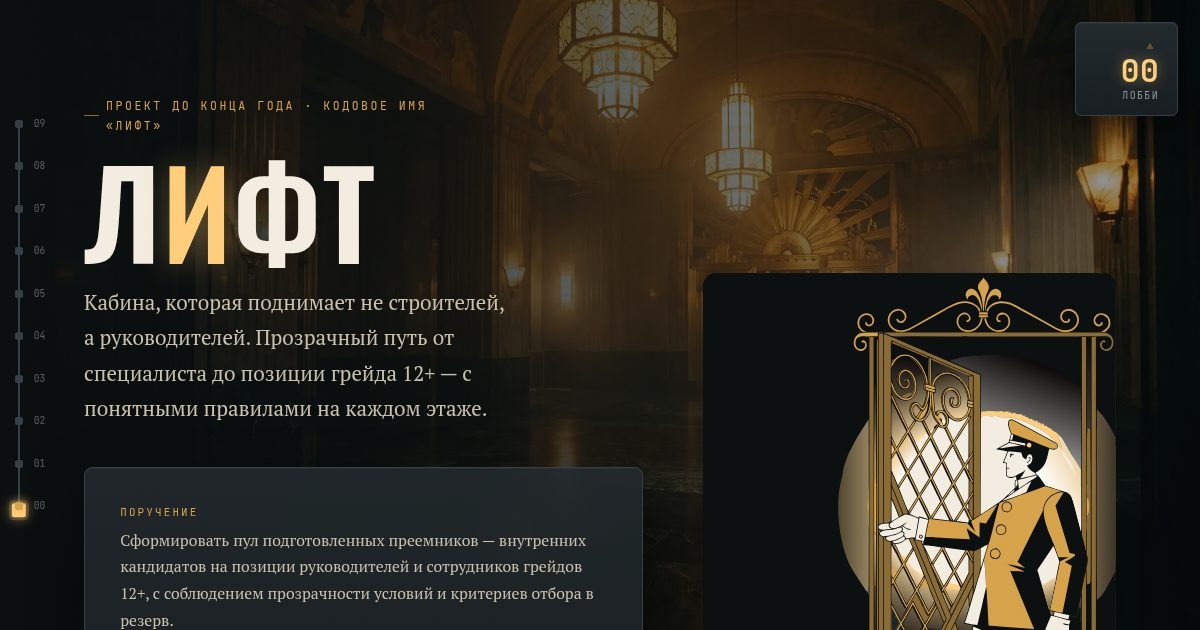
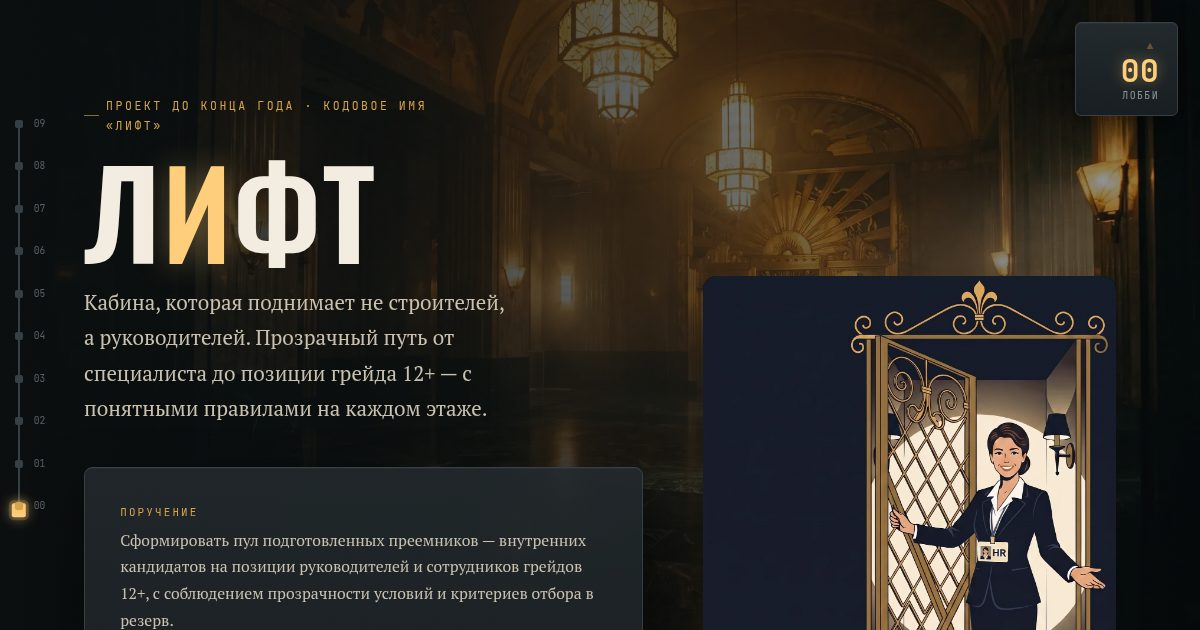
Заменить консьержа в hero на HR-менеджера с бейджем
Иллюстрация сгенерирована Higgsfield (nano-banana-pro, 2K) по стилевому
референсу из презентации: HR открывает решётчатую дверь лифта и приглашает
войти, бейдж с читаемыми буквами HR. concierge.svg удалён, вместо него
hero-hr.webp (1400×1875, 130 КБ); og-image перегенерирован; добавлен
qa/make_standalone.py для сборки автономного одиночного HTML.

Claude-Session: https://claude.ai/code/session_01QR6C7z78xKWRvgqQA5e2BZ

Changed region(s): [[0.5858, 0.4222, 0.9558, 1.0]]

diff --git a/src/styles.css b/src/styles.css
@@ -376,8 +376,8 @@ section.floor.is-active .floor-num::after{
 .hero-copy{display:flex; flex-direction:column; align-items:flex-start; text-align:left; gap:1.5rem;}
 .hero-visual{position:relative; width:100%; border-radius:14px; overflow:hidden; background:url('./assets/img/hero-visual-bg.webp') center/cover no-repeat;}
 .hero-visual::before{content:""; position:absolute; inset:0; background:linear-gradient(180deg, rgba(11,15,16,.15), rgba(11,15,16,.55)); z-index:1;}
-.hero-visual .concierge-svg{position:relative; z-index:2;}
-.hero-visual .concierge-svg{
+.hero-visual .hero-figure{position:relative; z-index:2;}
+.hero-visual .hero-figure{
   width:100%; height:auto; display:block;
   filter:drop-shadow(0 30px 55px rgba(0,0,0,.55));
 }

diff --git a/index.html b/index.html
@@ -88,7 +88,7 @@
       <a class="cta" href="#floor-1">Вызвать лифт <span aria-hidden="true">↑</span></a>
     </div>
     <div class="hero-visual">
-      <img class="concierge-svg" src="./src/assets/img/concierge.svg" width="1792" height="2432" alt="Консьерж открывает решётчатую дверь лифта" fetchpriority="high" decoding="async">
+      <img class="hero-figure" src="./src/assets/img/hero-hr.webp" width="1400" height="1875" alt="HR-менеджер с бейджем открывает решётчатую дверь лифта и приглашает войти" fetchpriority="high" decoding="async">
     </div>
   </div>
 </header>

diff --git a/qa/svg-frame.html b/qa/svg-frame.html
@@ -1,0 +1,2 @@
+<!DOCTYPE html><html><head><style>html,body{margin:0;background:#0b0f10}img{width:896px;height:1216px;display:block}</style></head>
+<body><img src="../src/assets/img/concierge.svg"></body></html>

diff --git a/qa/make_standalone.py b/qa/make_standalone.py
@@ -1,0 +1,38 @@
+# -*- coding: utf-8 -*-
+# Собирает автономный одиночный HTML: все шрифты/картинки/CSS/JS вшиты data-URI.
+import base64, re, os
+
+def data_uri(path, mime):
+    return f'data:{mime};base64,' + base64.b64encode(open(path,'rb').read()).decode()
+
+MIME = {'.woff2':'font/woff2', '.webp':'image/webp', '.svg':'image/svg+xml', '.png':'image/png', '.jpg':'image/jpeg'}
+def uri_for(rel):
+    p = os.path.join('src', rel) if not rel.startswith(('src/','public/')) else rel
+    return data_uri(p, MIME[os.path.splitext(p)[1]])
+
+css = open('src/styles.css', encoding='utf-8').read()
+css = css.replace('/*! CRITICAL-END */', '')
+css = re.sub(r"url\('\./assets/([^']+)'\)", lambda m: "url('" + uri_for('assets/' + m.group(1)) + "')", css)
+
+js = open('src/app.js', encoding='utf-8').read()
+js = js.replace("import './styles.css';\n", '')
+js = js.replace("import sceneCabinUrl from './assets/img/scene-cabin.webp';",
+                "var sceneCabinUrl = '" + uri_for('assets/img/scene-cabin.webp') + "';")
+js = js.replace("import sceneTopUrl from './assets/img/scene-top.webp';",
+                "var sceneTopUrl = '" + uri_for('assets/img/scene-top.webp') + "';")
+
+html = open('index.html', encoding='utf-8').read()
+html = re.sub(r'<img([^>]*?)src="\./src/assets/img/([^"]+)"',
+              lambda m: '<img' + m.group(1) + 'src="' + uri_for('assets/img/' + m.group(2)) + '"', html)
+# preload-ссылки не нужны, всё уже внутри файла
+html = re.sub(r'<link rel="preload" as="image"[^>]*>\n?', '', html)
+html = html.replace('<link rel="icon" href="/favicon.png" type="image/png" sizes="48x48">',
+                    f'<link rel="icon" href="{data_uri("public/favicon.png","image/png")}" type="image/png" sizes="48x48">')
+html = html.replace('<link rel="apple-touch-icon" href="/apple-touch-icon.png">', '')
+html = html.replace('<script type="module" src="/src/app.js"></script>',
+                    '<style>\n' + css + '</style>')
+html = html.replace('</body>', '<script>\n' + js + '\n</script>\n</body>')
+out = '/tmp/claude-0/-home-user/a2633d04-e622-5930-994b-fa25264a22db/scratchpad/lift-landing-standalone.html'
+open(out, 'w', encoding='utf-8').write(html)
+print('standalone:', os.path.getsize(out), 'bytes')
+assert 'src="./src/' not in html and "url('./assets" not in html

diff --git a/README.md b/README.md
@@ -65,6 +65,9 @@ node qa/weigh.cjs                                        # вес первого
 node qa/a11y.cjs                                         # клавиатура + reduced-motion
 ```
 
-Эталонные скриншоты снимаются с `reference/lift-6-updated.html`. Высоты страниц
-должны совпадать точно (9772px десктоп / 10488px мобайл); допустимая разница
-пикселей — только от пережатия изображений.
+Эталонные скриншоты снимаются с `reference/lift-6-updated.html`. С 2026-07-23
+hero-иллюстрация заменена (консьерж → HR-менеджер, `src/assets/img/hero-hr.webp`,
+сгенерирована Higgsfield/nano-banana-pro по стилевому референсу) — дифф с эталоном
+теперь показывает осмысленную разницу в hero-блоке, остальные секции должны
+совпадать. `qa/make_standalone.py` собирает автономный одиночный HTML со всеми
+ассетами внутри.
